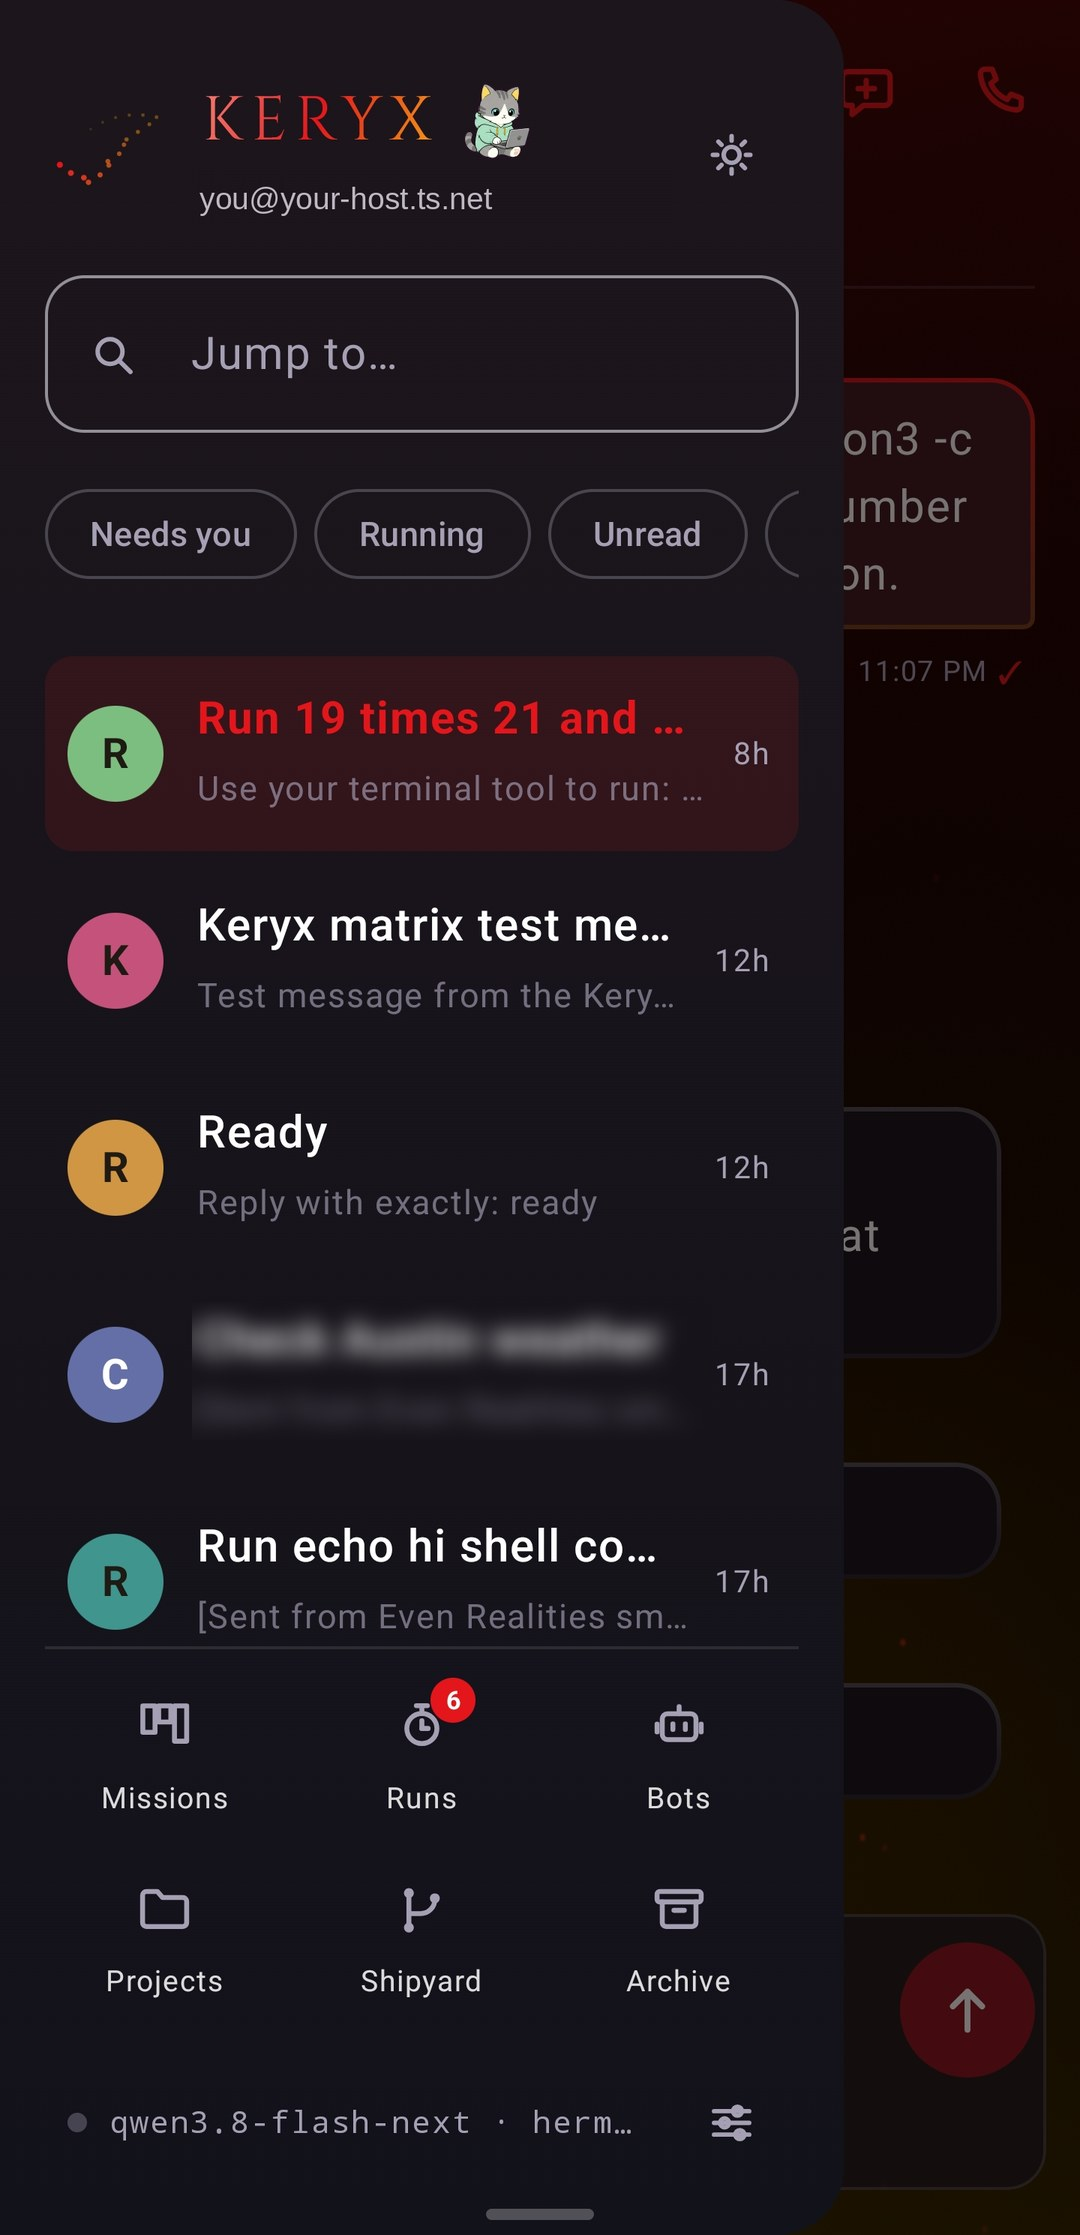
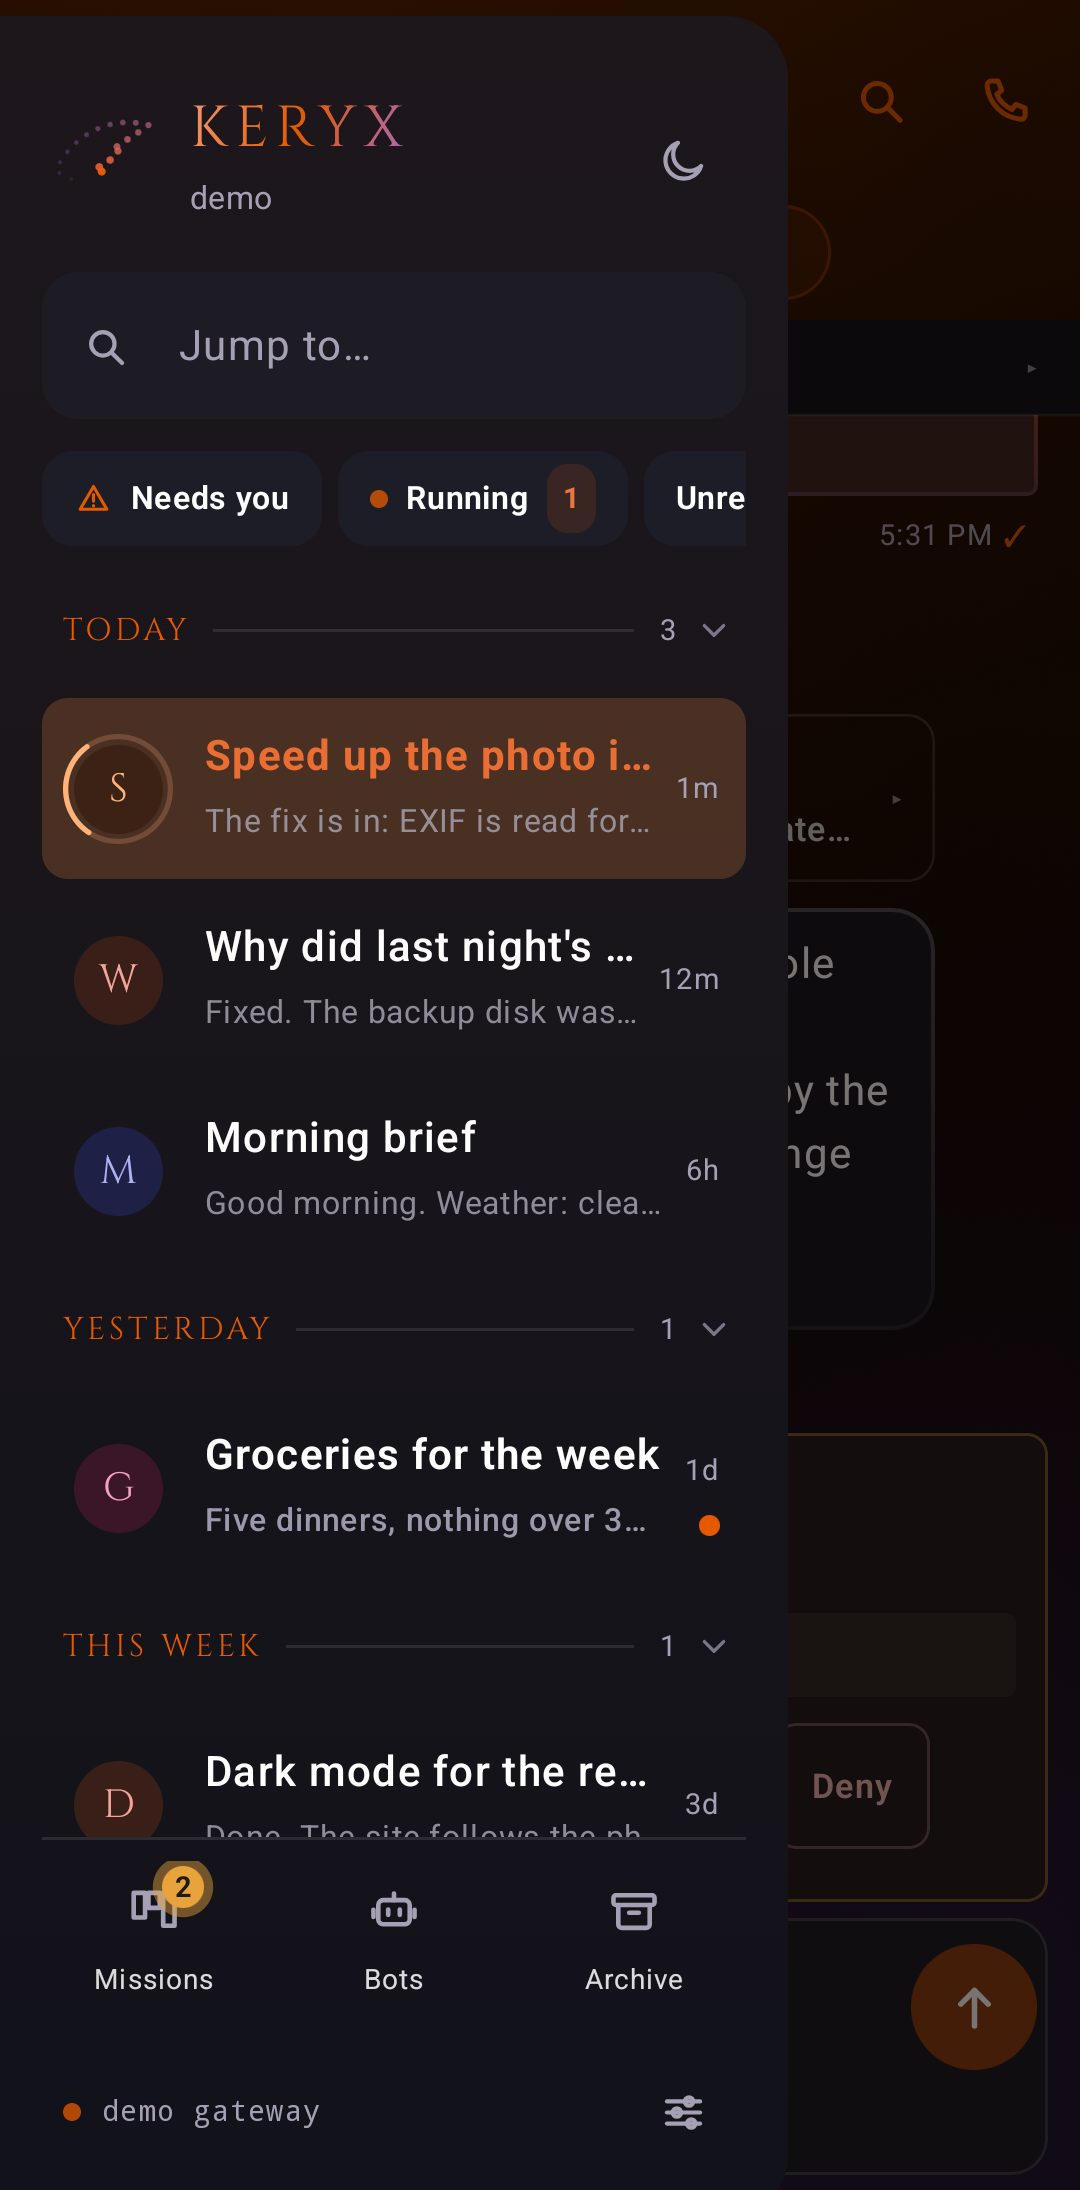
3.0 docs: README shots from the 3.0 demo
The agent asking before a risky step, the redrawn drawer, a mission card and a space hint,
all from the demo (no gateway, nothing personal). drawer.jpg is replaced with the 3.0 drawer.

diff --git a/README.md b/README.md
@@ -36,12 +36,12 @@ reasoning-effort scale and tool verbs match Hermes Desktop, by Nous Research (MI
 
 Keryx is a personal project. It is not affiliated with or endorsed by Nous Research.
 
-<!-- TODO(3.0): hero shot or short demo clip of the 3.0 demo (agent mid-job, Flight Plan, approval) goes here. The three shots below predate the 3.0 redesign (the drawer looks different now). -->
 <p align="center">
-  <img src="docs/img/turn-anatomy.jpg" align="top" alt="A finished turn: prompt, reasoning, a tool card with its output, the reply" width="260">
-  <img src="docs/img/drawer.jpg" align="top" alt="The drawer: sessions, filters, and the spaces" width="260">
-  <img src="docs/img/gateway-panel.jpg" align="top" alt="The Gateway panel: brain, state, and the rooms of the machine" width="260">
-  <br><sub>A turn with its reasoning and tool output open · the drawer · the Gateway panel</sub>
+  <img src="docs/img/demo-at-work.jpg" align="top" alt="An agent mid-job: its Flight Plan at 2 of 4, a tool card, and an approval for a recursive delete with Allow once, Session, Always and Deny" width="200">
+  <img src="docs/img/drawer.jpg" align="top" alt="The drawer: chats with tinted monograms, a ring on the one at work, and the Needs you and Running filters" width="200">
+  <img src="docs/img/mission-story.jpg" align="top" alt="A mission card opened: what is going on in one line, the task, and what happened" width="200">
+  <img src="docs/img/space-hint.jpg" align="top" alt="The first visit to Missions: a spotlight on the header says what the space is for" width="200">
+  <br><sub>The demo, no gateway needed: an agent asking before a risky step · the drawer · a mission card · a space explaining itself on the first visit</sub>
 </p>
 
 ## Try it without a gateway
